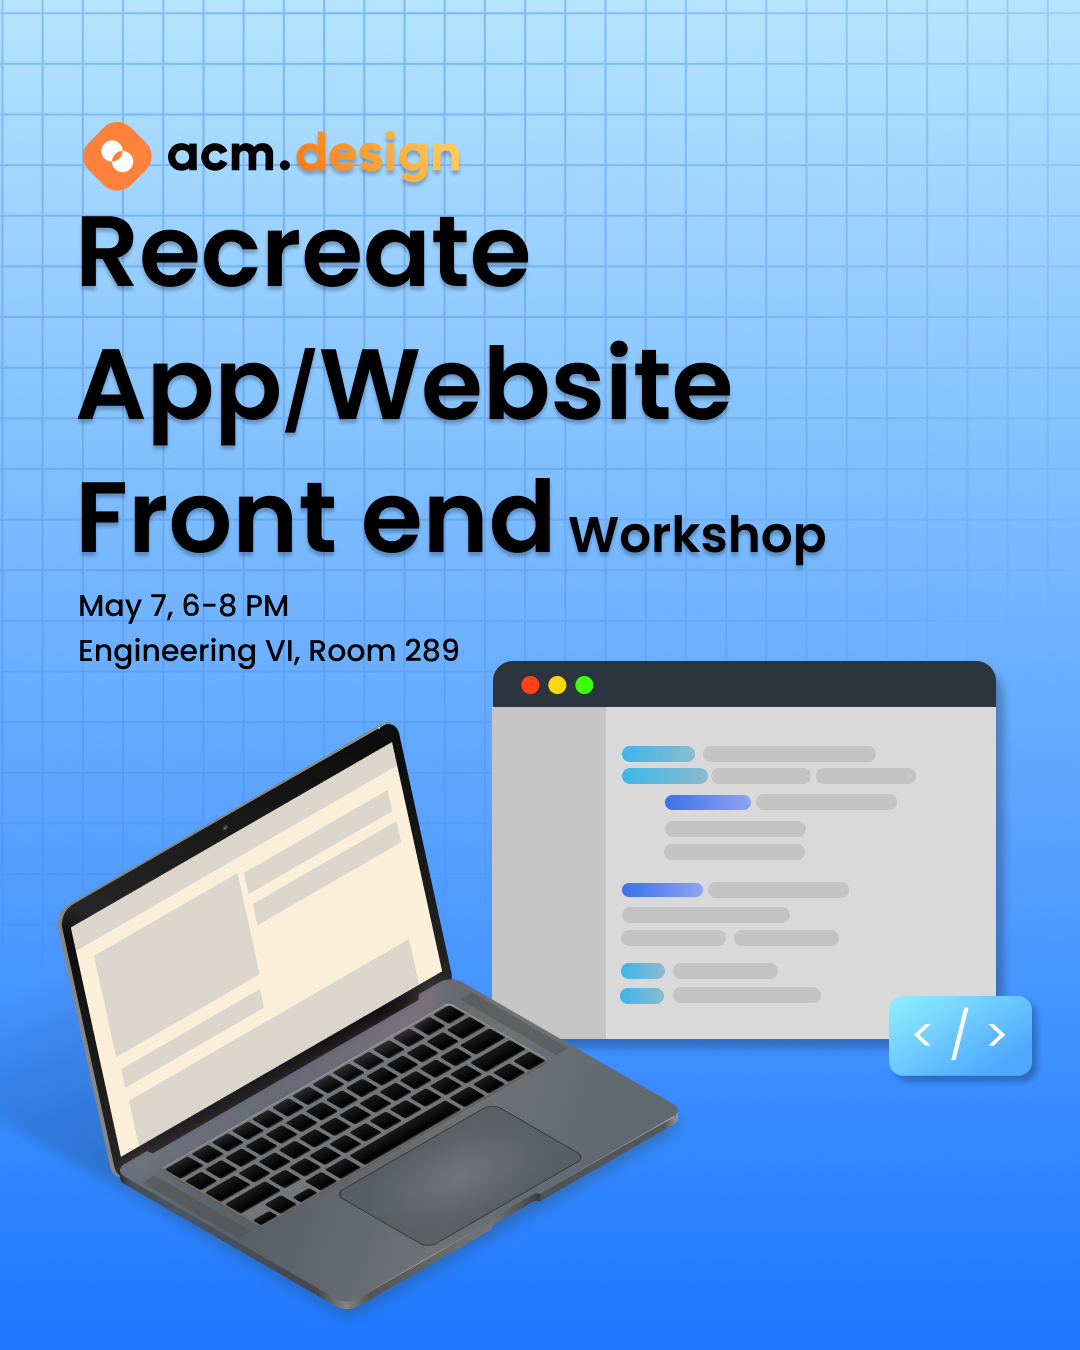
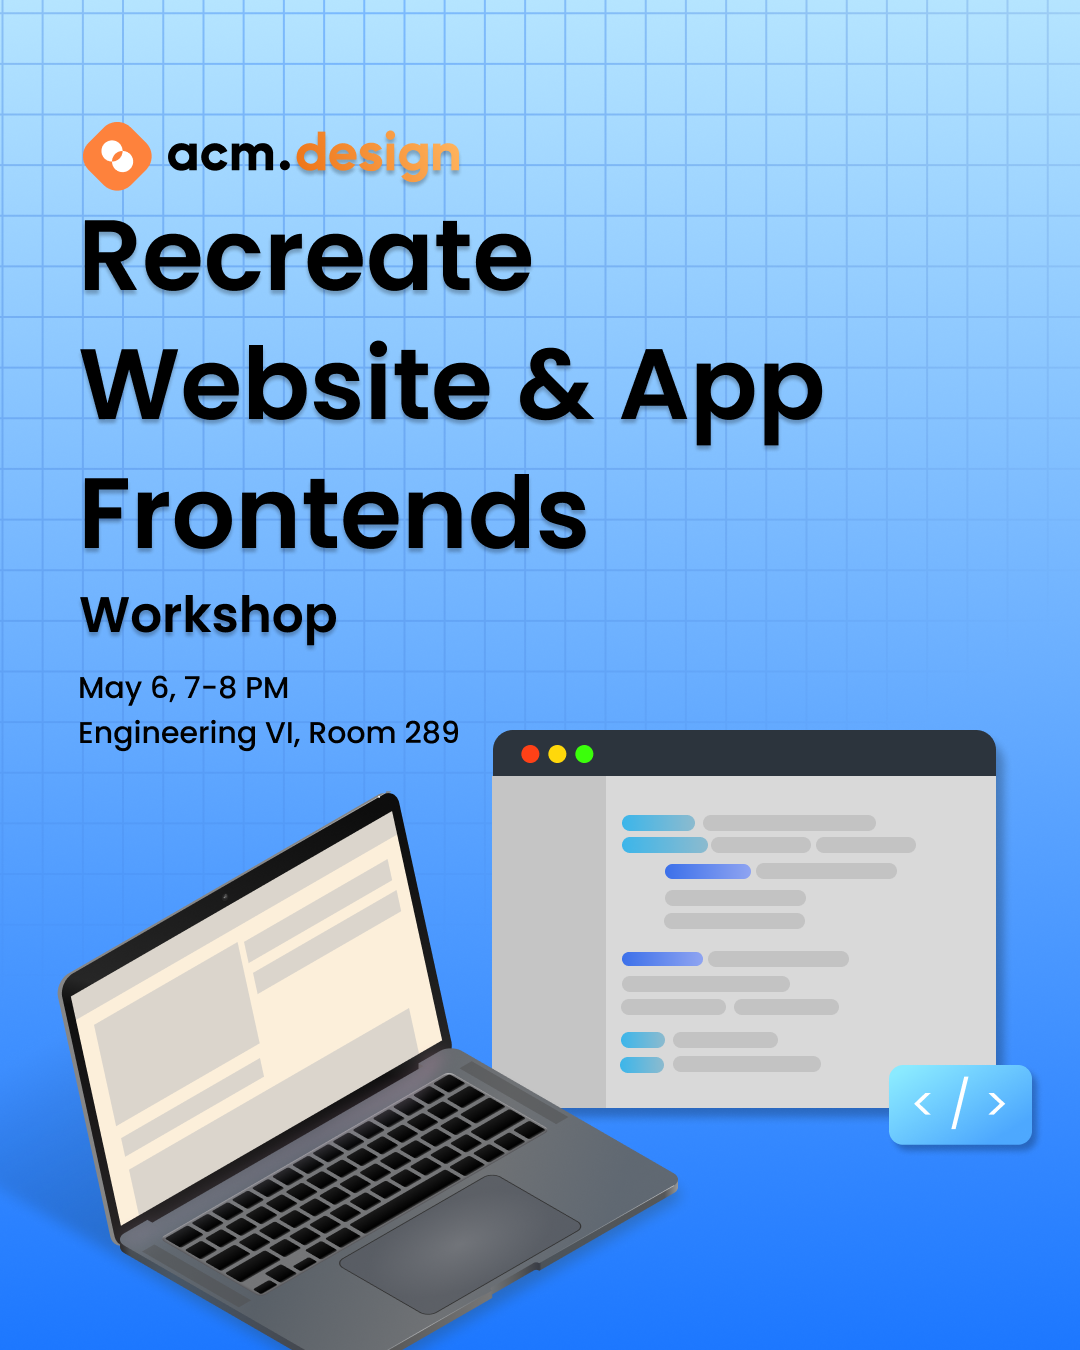
new events, new header, new text

Changed region(s): [[0.0, 0.2489, 0.9778, 1.0], [0.0611, 0.1556, 0.4889, 0.2178], [0.3972, 0.0933, 0.4278, 0.1244]]

diff --git a/src/data/events.ts b/src/data/events.ts
@@ -21,6 +21,38 @@ export const isCurrent = (e: Event): boolean => e.date >= new Date()
 
 export const events: Event[] = [
     {
+        id: "s2026-w7-illustrator",
+        title: "Brand Design with Illustrator Workshop",
+        shortDescription:
+            "Learn about brand design strategy and how to navigate Adobe Illustrator to create visual identities.",
+        fullDescription:
+            "Learn about brand design while learning how to use Adobe Illustrator! 🎨🖌\n\nCome learn about the strategy behind the visual identity that represents brands. Also learn how to navigate Adobe Illustrator and how to use its features! 💫\n\n🧡 RSVP: https://luma.com/y2wgczdw",
+        date: new Date("2026-05-13"),
+        time: "7–8PM",
+        location: "Engineering VI, Room 289",
+        quarter: "Spring",
+        year: 2026,
+        academicYear: "2025-2026",
+        type: "workshop",
+        src: "/images/Events/S2026-W7Workshop.png",
+    },
+    {
+        id: "s2026-w6-frontend",
+        title: "Recreate Website & App Frontends Workshop",
+        shortDescription:
+            "Learn HTML, CSS, and JavaScript by recreating popular website frontends with your own stylistic twist.",
+        fullDescription:
+            "Have you ever wanted to recreate your favorite website or app and add your own stylistic twist? 🌟\n\nCome to our workshop and learn how to use HTML, CSS, and JavaScript. We will guide you through how to recreate an existing popular websites Frontend. 💻\n\n🧡 RSVP: https://luma.com/2dx54qpk",
+        date: new Date("2026-05-06"),
+        time: "7–8PM",
+        location: "Engineering VI, Room 289",
+        quarter: "Spring",
+        year: 2026,
+        academicYear: "2025-2026",
+        type: "workshop",
+        src: "/images/Events/S2026-W6Workshop.png",
+    },
+    {
         id: "s2026-w4-p5js",
         title: "Intro to p5.js Workshop",
         shortDescription:

diff --git a/src/components/sections/EventsHero.tsx b/src/components/sections/EventsHero.tsx
@@ -1,4 +1,3 @@
-import ImagePlaceholder from "../common/ImagePlaceholder"
 import "../../styles/EventsHero.css"
 
 function EventsHero() {
@@ -12,14 +11,15 @@ function EventsHero() {
                         <span className="events-hero-black-gradient">Events</span>
                     </h1>
                     <p className="events-hero-body">
-                        This page shows events that are open to all. To find out about events for
-                        internal members, please check them out here.
+                        From hands-on workshops in Figma, Photoshop, and front-end development to
+                        speaker panels and quarter-long project tracks, our events are open to all
+                        UCLA students—no experience required! Come learn, design, and create with us.
                     </p>
                 </div>
 
                 {/*Illustration*/}
                 <div className="events-hero-illustration">
-                    <ImagePlaceholder width="548px" height="413px" />
+                    <img src="/images/Fox-Events.svg" alt="Fox Events" width="548" height="413" />
                 </div>
 
             </div>

diff --git a/src/styles/EventCard.css b/src/styles/EventCard.css
@@ -24,6 +24,7 @@
 
 .event-card-image {
     width: 220px;
+    aspect-ratio: 4 / 5;
     background-color: #d9d9d9;
     border-radius: 16px;
     flex-shrink: 0;
@@ -32,7 +33,9 @@
 
 .event-card-image img {
     width: 100%;
-    height: auto;
+    height: 100%;
+    object-fit: cover;
+    display: block;
     border-radius: 16px;
     box-shadow: none;
     transition: transform 150ms cubic-bezier(.215, .61, .355, 1);

diff --git a/src/styles/EventsHero.css b/src/styles/EventsHero.css
@@ -18,6 +18,7 @@
 
 .events-hero-text {
     flex: 1;
+    padding-bottom: 32px;
 }
 
 .events-hero-title {
@@ -39,7 +40,7 @@
     font-size: 16px;
     font-weight: 400;
     line-height: 1.4;
-    margin: 0;
+    margin: 0 0 16px 0;
     max-width: 520px;
 }
 

diff --git a/src/components/events.md b/src/components/events.md
@@ -9,7 +9,7 @@ In this beginner friendly workshop you will learn how to navigate and use P5.js.
 📍Engineering VI, Room 289
 🧡RSVP: https://luma.com/470x7bag
 ## Image
-![p5.js workshop](./Events/S2026-W4Workshop.png)
+![p5.js workshop](./images/Events/S2026-W4Workshop.png)
 
 # Digital Cardmarking Workshop
 ## Description
@@ -21,7 +21,7 @@ Come to our workshop and learn how to navigate VS Code. We will teach you how to
 📍 Engineering VI, Room 289
 🧡 RSVP: https://luma.com/nt8h0o7t
 ## Image
-![Digital Cardmarking Workshop](./Events/S2026-W3Workshop.png)
+![Digital Cardmarking Workshop](./images/Events/S2026-W3Workshop.png)
 
 # Intro to Photoshop Workshop
 ## Description
@@ -35,7 +35,7 @@ This is a great way for beginners to break into design. In this workshop, you wi
 
 Also join us for a ShareTea boba run social after the workshop at 8pm!!🧋
 ## Image
-![Intro to Photoshop Workshop](./Events/S2026-W2Workshop.png)
+![Intro to Photoshop Workshop](./images/Events/S2026-W2Workshop.png)
 
 # Build a Standout Design Portfolio Workshop
 ## Description
@@ -48,13 +48,13 @@ Learn how to best present yourself and your skills through a professionally deve
 🗓 Thursday April 2, 6-8PM
 📍 Boelter 8500
 ## Image
-![Build a Standout Design Portfolio Workshop](./Events/S2026-W1Workshop.png)
+![Build a Standout Design Portfolio Workshop](./images/Events/S2026-W1Workshop.png)
 
 # Projects Track
 ## Description
 🎨 Introducing ACM Design's Projects Track! This 10-week, beginner-friendly series is a chance for you to dive deeper into design by working on a full, PM-led product from ideation to prototype 💻 You’ll collaborate in small teams during weekly 2-hour work sessions 👫, gain guided experience in Figma, and walk away with a portfolio-ready project, all in a supportive and low-commitment environment. This is perfect for anyone who’s enjoyed our workshops and wants to take the next step in design. 🤩 Join us on January 7th from 6-8 PM in MS 5200 to learn more! 🧡
 ## Image
-![Projects Track](./Events/W2026-ProjectsTrack.png)
+![Projects Track](./images/Events/W2026-ProjectsTrack.png)
 
 # AI + Design Panel
 ## Description
@@ -71,7 +71,7 @@ Featuring a demo, free Claude Pro access, and snacks by Claude Code!
 🔗 RSVP link in bio, or use
 tinyurl.com/acm-ai-design
 ## Image
-![AI + Design Panel](./Events/W2026-AIxDesign.png)
+![AI + Design Panel](./images/Events/W2026-AIxDesign.png)
 
 # Design Workshop Track
 ## Description
@@ -85,7 +85,7 @@ Learn how to use Figma for creating wireframes and prototypes and Framer for bui
 
 Mark your calendars, we’ll see you there! 🧡
 ## Image
-![Design Workshop Track](./Events/F2025-DesignTrack.jpg)
+![Design Workshop Track](./images/Events/F2025-DesignTrack.jpg)
 
 # Dev Workshop Track
 ## Description
@@ -99,4 +99,4 @@ Perfect for those who want to learn the fundamentals of front-end development, f
 
 We can’t wait to see you there! 🧡
 ## Image
-![Dev Workshop Track](./Events/F2025-DevTrack.jpg)
+![Dev Workshop Track](./images/Events/F2025-DevTrack.jpg)
